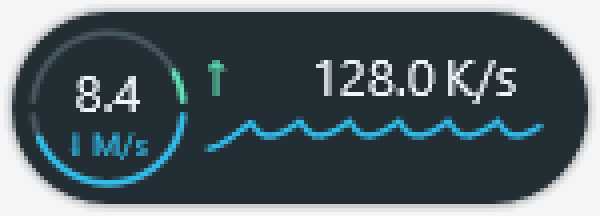
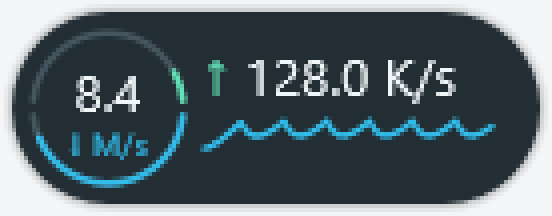
fix: tighten floating upload layout and capsule width
Narrow the body to 132x48 DIP while retaining ring and text size. Keep
upload readings next to the arrow, position units after the measured
number, and shorten the aligned trend line with a 12 DIP right inset.

Refresh visual evidence and cover short-reading placement with CTest.

diff --git a/src/WinMon/FloatingRateRenderer.cpp b/src/WinMon/FloatingRateRenderer.cpp
@@ -4,7 +4,7 @@
 
 namespace
 {
-constexpr float kBodyScale = 12.0f / 11.0f; // 132x44 design coordinates to 144x48 DIP.
+constexpr float kBodyScale = 12.0f / 11.0f; // Preserve the enlarged ring and text while narrowing the capsule.
 
 void Check(HRESULT result) { if (FAILED(result)) throw result; }
 double Rate(double value) noexcept { return std::isfinite(value) && value > 0 ? value : 0; }
@@ -23,16 +23,16 @@ FloatingRateRenderer::~FloatingRateRenderer()
 
 SIZE FloatingRateRenderer::SizeForDpi(UINT dpi) noexcept
 {
-    return {MulDiv(150, static_cast<int>(dpi), 96), MulDiv(54, static_cast<int>(dpi), 96)};
+    return {MulDiv(138, static_cast<int>(dpi), 96), MulDiv(54, static_cast<int>(dpi), 96)};
 }
 
 bool FloatingRateRenderer::HitTest(POINT client, UINT dpi) noexcept
 {
     if (!dpi) return false;
-    const float x = (client.x * 96.0f / dpi - 3) / kBodyScale;
-    const float y = (client.y * 96.0f / dpi - 3) / kBodyScale - 22;
-    const float dx = x - std::clamp(x, 22.0f, 110.0f);
-    return dx * dx + y * y <= 22 * 22;
+    const float x = client.x * 96.0f / dpi - 3;
+    const float y = client.y * 96.0f / dpi - 27;
+    const float dx = x - std::clamp(x, 24.0f, 108.0f);
+    return dx * dx + y * y <= 24 * 24;
 }
 
 bool FloatingRateRenderer::IsPositionVisible(RECT body, RECT workArea) noexcept
@@ -137,9 +137,9 @@ bool FloatingRateRenderer::Render(const std::wstring& upload, const std::wstring
         const auto color = [&](UINT32 rgb, float alpha = 1) { brush_->SetColor(D2D1::ColorF(rgb, alpha)); };
         // Two quiet contours keep the entire shadow inside the 3 DIP margin.
         color(0x000000, 0.06f);
-        target_->FillRoundedRectangle(D2D1::RoundedRect(D2D1::RectF(1, 1, 149, 53), 26, 26), brush_.Get());
+        target_->FillRoundedRectangle(D2D1::RoundedRect(D2D1::RectF(1, 1, 137, 53), 26, 26), brush_.Get());
         color(0x000000, 0.10f);
-        target_->FillRoundedRectangle(D2D1::RoundedRect(D2D1::RectF(2, 2, 148, 52), 25, 25), brush_.Get());
+        target_->FillRoundedRectangle(D2D1::RoundedRect(D2D1::RectF(2, 2, 136, 52), 25, 25), brush_.Get());
         Check(target_->EndDraw());
         const auto copyPixels = [&]
         {
@@ -154,7 +154,7 @@ bool FloatingRateRenderer::Render(const std::wstring& upload, const std::wstring
         // Scale vectors and glyphs before rasterization, leaving the shadow margin at 3 DIP.
         target_->SetTransform(D2D1::Matrix3x2F::Scale(kBodyScale, kBodyScale, D2D1::Point2F(3, 3)));
         color(0x222e34);
-        target_->FillRoundedRectangle(D2D1::RoundedRect(D2D1::RectF(3, 3, 135, 47), 22, 22), brush_.Get());
+        target_->FillRoundedRectangle(D2D1::RoundedRect(D2D1::RectF(3, 3, 124, 47), 22, 22), brush_.Get());
         double maximum = 1000;
         for (size_t i = 48 - count_; i < 48; ++i)
             maximum = std::max({maximum, uploadHistory_[i], downloadHistory_[i]});
@@ -192,7 +192,7 @@ bool FloatingRateRenderer::Render(const std::wstring& upload, const std::wstring
             color(peak == 1000 && downloadHistory_.back() == 0 ? 0x46565f : 0x32bdeb);
             const auto point = [&](size_t i)
             {
-                return D2D1::Point2F(48 + 76.0f * static_cast<float>(i) / 47,
+                return D2D1::Point2F(47 + 66.0f * static_cast<float>(i) / 47,
                     39 - 11 * static_cast<float>(downloadHistory_[i] / peak));
             };
             for (size_t i = 49 - count_; i < 48; ++i)
@@ -215,16 +215,28 @@ bool FloatingRateRenderer::Render(const std::wstring& upload, const std::wstring
                 Check(layout->SetFontSize(formats_[style]->GetFontSize() * scale * 0.98f, {0, length}));
             color(rgb);
             target_->DrawTextLayout(D2D1::Point2F(rect.left, rect.top), layout.Get(), brush_.Get());
+            Check(layout->GetMetrics(&metrics));
+            return metrics.widthIncludingTrailingWhitespace;
         };
         const auto split = download.find(L' ');
         text(download.substr(0, split), 0, D2D1::RectF(11, 13, 39, 29), 0xf0f5f7, DWRITE_TEXT_ALIGNMENT_CENTER);
         text(L"\u2193 " + (split == std::wstring::npos ? std::wstring{} : download.substr(split + 1)),
             1, D2D1::RectF(11, 28, 39, 38), 0x32bdeb, DWRITE_TEXT_ALIGNMENT_CENTER);
-        text(L"\u2191", 2, D2D1::RectF(47, 9, 58, 25), 0x61e5b7, DWRITE_TEXT_ALIGNMENT_LEADING);
+        const float arrowWidth = text(L"\u2191", 2, D2D1::RectF(47, 9, 58, 25),
+            0x61e5b7, DWRITE_TEXT_ALIGNMENT_LEADING);
         const auto uploadSplit = upload.find(L' ');
-        text(upload.substr(0, uploadSplit), 2, D2D1::RectF(59, 9, 100, 25), 0xf0f5f7, DWRITE_TEXT_ALIGNMENT_TRAILING);
-        text(uploadSplit == std::wstring::npos ? std::wstring{} : upload.substr(uploadSplit + 1),
-            2, D2D1::RectF(102, 9, 127, 25), 0xf0f5f7, DWRITE_TEXT_ALIGNMENT_LEADING);
+        const std::wstring unit = uploadSplit == std::wstring::npos ? std::wstring{} : upload.substr(uploadSplit);
+        ComPtr<IDWriteTextLayout> unitLayout;
+        Check(textFactory_->CreateTextLayout(unit.c_str(), static_cast<UINT32>(unit.size()),
+            formats_[2].Get(), 66, 16, &unitLayout));
+        DWRITE_TEXT_METRICS unitMetrics{};
+        Check(unitLayout->GetMetrics(&unitMetrics));
+        const float numberLeft = 47 + arrowWidth + 4 / kBodyScale;
+        const float numberWidth = text(upload.substr(0, uploadSplit), 2,
+            D2D1::RectF(numberLeft, 9, 113 - unitMetrics.widthIncludingTrailingWhitespace, 25),
+            0xf0f5f7, DWRITE_TEXT_ALIGNMENT_LEADING);
+        text(unit, 2, D2D1::RectF(numberLeft + numberWidth, 9, 113, 25),
+            0xf0f5f7, DWRITE_TEXT_ALIGNMENT_LEADING);
         Check(target_->EndDraw());
         auto body = copyPixels();
         auto pixels = body;

diff --git a/tests/FloatingRateRendererTests/FloatingRateRendererTests.cpp b/tests/FloatingRateRendererTests/FloatingRateRendererTests.cpp
@@ -36,14 +36,14 @@ int main(int argc, char** argv)
     LOGFONTW font{};
     wcscpy_s(font.lfFaceName, L"Segoe UI");
     Require(renderer.Render(L"0.0 K/s", L"0.0 K/s", font, 96), "offscreen render");
-    Require(renderer.PixelSize().cx == 150 && renderer.PixelSize().cy == 54, "144x48 body plus shadow");
+    Require(renderer.PixelSize().cx == 138 && renderer.PixelSize().cy == 54, "132x48 body plus shadow");
     bool partial = false;
     const auto& pixels = renderer.Pixels();
     for (size_t i = 0; i < pixels.size(); ++i)
     {
         const DWORD p = pixels[i], a = p >> 24;
         Require((p & 255) <= a && ((p >> 8) & 255) <= a && ((p >> 16) & 255) <= a, "premultiplied alpha");
-        if (i < 150 || i >= pixels.size() - 150 || i % 150 == 0 || i % 150 == 149)
+        if (i < 138 || i >= pixels.size() - 138 || i % 138 == 0 || i % 138 == 137)
             Require(p == 0, "transparent canvas boundary");
         partial |= a > 0 && a < 255;
     }
@@ -57,7 +57,7 @@ int main(int argc, char** argv)
         for (int dy = -1; dy <= 1; ++dy)
             for (int dx = -1; dx <= 1; ++dx)
             {
-                DWORD p = renderer.Pixels()[(y + dy) * 150 + x + dx];
+                DWORD p = renderer.Pixels()[(y + dy) * 138 + x + dx];
                 int b = p & 255, g = (p >> 8) & 255, r = (p >> 16) & 255;
                 if (up ? (g > 120 && g > b + 15 && g > r + 30) : (b > 140 && b > g + 15 && b > r + 50)) return true;
             }
@@ -131,6 +131,15 @@ int main(int argc, char** argv)
     Require(FloatingRateRenderer::HitTest({25, 25}, 96), "capsule receives input");
     Require(!FloatingRateRenderer::IsPositionVisible({2000,0,2132,44}, {0,0,1920,1080}), "missing monitor rejected");
     Require(FloatingRateRenderer::IsPositionVisible({-84,0,48,44}, {0,0,1920,1080}), "usable partial body retained");
+    Require(renderer.Render(L"0.6 K/s", L"0.1 K/s", font, 96), "compact short upload");
+    bool nearbyReading = false;
+    for (int y = 12; y < 26; ++y)
+        for (int x = 60; x < 70; ++x)
+        {
+            const DWORD p = renderer.Pixels()[y * 138 + x];
+            nearbyReading |= ((p >> 16) & 255) > 170 && ((p >> 8) & 255) > 170 && (p & 255) > 170;
+        }
+    Require(nearbyReading, "short upload stays beside arrow instead of aligning to far right");
     const auto evidence = argc > 1 ? std::filesystem::path(argv[1]) : std::filesystem::path{};
     if (!evidence.empty()) std::filesystem::create_directories(evidence);
     for (UINT dpi : {96u, 120u, 144u, 192u})
@@ -140,7 +149,7 @@ int main(int argc, char** argv)
                 wcscpy_s(font.lfFaceName, family);
                 Require(renderer.Render(value, value, font, dpi), "DPI/font/long value matrix");
                 const SIZE size = renderer.PixelSize();
-                Require(size.cx == (dpi == 96 ? 150 : dpi == 120 ? 188 : dpi == 144 ? 225 : 300), "scaled width");
+                Require(size.cx == (dpi == 96 ? 138 : dpi == 120 ? 173 : dpi == 144 ? 207 : 276), "scaled width");
                 Require(size.cy == (dpi == 96 ? 54 : dpi == 120 ? 68 : dpi == 144 ? 81 : 108), "scaled height");
                 for (size_t i = 0; i < renderer.Pixels().size(); ++i)
                 {
@@ -160,5 +169,7 @@ int main(int argc, char** argv)
         SaveBitmap(renderer, evidence / "actual-size-light.bmp", 0xf4f5f7);
         Require(renderer.Render(L"999.9 G/s", L"999.9 G/s", font, 96), "long evidence");
         SaveBitmap(renderer, evidence / "long-reading.bmp", 0xf4f5f7);
+        Require(renderer.Render(L"0.6 K/s", L"0.1 K/s", font, 96), "short evidence");
+        SaveBitmap(renderer, evidence / "short-reading.bmp", 0x181818);
     }
 }

diff --git a/.scratch/compact-floating-rate-display/spec.md b/.scratch/compact-floating-rate-display/spec.md
@@ -12,7 +12,7 @@ Status: ready-for-human
 
 ## Solution
 
-实现约 3:1 的深色胶囊，主体尺寸为 **144×48 DIP**。左侧圆环内显示 Download Rate 数值和单位；右侧上方显示 Upload Rate，下方显示近期 Download Rate 曲线。
+实现约 3:1 的深色胶囊，主体尺寸为 **132×48 DIP**。左侧圆环内显示 Download Rate 数值和单位；右侧上方显示 Upload Rate，下方显示近期 Download Rate 曲线。
 
 圆环沿水平方向分成独立的上下半环：
 
@@ -63,7 +63,7 @@ Status: ready-for-human
 
 ### 外观与排版
 
-- 主体 144×48 DIP，圆角半径 24 DIP，约 3:1。左侧环外径约 39 DIP，主体内留约 4 DIP 边距，线宽约 1.64 DIP，使用圆头端点。
+- 主体 132×48 DIP，圆角半径 24 DIP，约 3:1。左侧环外径约 39 DIP，主体内留约 4 DIP 边距，线宽约 1.64 DIP，使用圆头端点。
 - 主体深灰蓝以 #222E34 为基准，主要文字近白，Upload Rate 青绿、Download Rate 青蓝；暗轨道低对比但可见。主体保持足够不透明度保证读数，透明度主要用于边缘和轻微阴影。
 - 阴影透明边距上限每侧约 3 DIP，另计窗口尺寸；不得把主体尺寸与含阴影窗口尺寸混用。阴影不接收点击，胶囊主体可拖动和打开菜单。
 - 左侧为下载数值，下方为向下箭头及单位；右上为向上箭头及完整上传读数，右下为单条下载趋势线。没有 CPU、百分比、加号按钮、标题或图外说明文字。
@@ -125,7 +125,7 @@ Status: ready-for-human
 ## Further Notes
 
 - 视觉参考：[双半环深色胶囊预览](visual-reference.png)。这是放大的生成图，用于布局、颜色及方向参考；工程验收以本文的尺寸、格式和行为为准。图中的英文引线说明不属于产品 UI。
-- 设计收敛记录：保留第二款下载优先布局，采用第三款约 3:1 比例，恢复项目深色系，尺寸由 144×48 DIP 缩至 132×44 DIP，圆环改为上传在上、下载在下且均从右端开始。
+- 设计收敛记录：保留第二款下载优先布局，采用第三款约 3:1 比例，恢复项目深色系，尺寸由 132×48 DIP 缩至 132×44 DIP，圆环改为上传在上、下载在下且均从右端开始。
 - 用户已指定采用推荐的 Direct2D／DirectWrite 技术选型。本规格对未讨论的比例标尺、字体适配、采样刷新和资源复用给出了可直接实现的默认决定。
 - 技术依据：[Microsoft — Layered Windows with Direct2D](https://learn.microsoft.com/en-us/archive/msdn-magazine/2009/december/windows-with-c-layered-windows-with-direct2d)。它描述了 Direct2D、WIC 预乘位图和分层窗口的组合；不是要求复制其中旧示例的全部封装。
 
@@ -135,4 +135,8 @@ Status: ready-for-human
 
 ### 用户视觉修订
 
-主体从 132×44 DIP 适度放大为 144×48 DIP，文字及图形同比放大约 9%，阴影边距仍为 3 DIP。对照原型，左右两端的上下半环及暗轨道均保留约 2 DIP 间隙。以上覆盖早期尺寸收敛记录。
+主体从 132×44 DIP 适度放大为 132×48 DIP，文字及图形同比放大约 9%，阴影边距仍为 3 DIP。对照原型，左右两端的上下半环及暗轨道均保留约 2 DIP 间隙。以上覆盖早期尺寸收敛记录。
+
+### 2026-09-20 右侧排版修订
+
+主体从 144×48 DIP 收窄为 132×48 DIP，保留当前高度、圆环及字号。上传箭头与读数左对齐，间隔 4 DIP，单位以正常空格紧接数字；仅长数字按可用空间缩小。曲线左端对齐箭头，右端距主体右缘 12 DIP。Release 构建和 3/3 CTest 通过，新增短上传读数靠近箭头的像素回归；原待人工验收状态保持。

diff --git a/CONTEXT.md b/CONTEXT.md
@@ -13,7 +13,7 @@ The two-line Upload/Download Rate text embedded on the primary bottom taskbar on
 _Avoid_: taskbar window, widget, HUD, overlay (unless contrasting implementation), main UI
 
 **Floating Rate Display**:
-An optional, borderless, always-on-top 144x48 DIP dark capsule. Download Rate is emphasized inside a left-hand ring; Upload Rate sits above a recent download trend on the right. Green upper and blue lower semicircles have small gaps at both horizontal joints; they grow from the right toward the left, showing upload and download relative to a shared recent peak (not bandwidth utilization). Direct2D/DirectWrite render at the display monitor's DPI with per-pixel alpha; the subtle shadow occupies at most 3 DIP per side and passes mouse input through. It has no taskbar or Alt-Tab entry, uses the Rate Font family and styles with independently fitted compact sizes, can be dragged without activation, and always opens the Operator Menu on right-click; it remains available while the Rate Strip is hidden. Its dark palette is fixed and independent of the Rate Strip's system-theme colors. Graphical history resets when Network to Monitor changes or falls back. Its visibility and absolute desktop position persist; first use and an off-screen restored position place it at the primary work area's upper-right corner.
+An optional, borderless, always-on-top 132x48 DIP dark capsule. Download Rate is emphasized inside a left-hand ring; Upload Rate sits above a recent download trend on the right. Green upper and blue lower semicircles have small gaps at both horizontal joints; they grow from the right toward the left, showing upload and download relative to a shared recent peak (not bandwidth utilization). Direct2D/DirectWrite render at the display monitor's DPI with per-pixel alpha; the subtle shadow occupies at most 3 DIP per side and passes mouse input through. It has no taskbar or Alt-Tab entry, uses the Rate Font family and styles with independently fitted compact sizes, can be dragged without activation, and always opens the Operator Menu on right-click; it remains available while the Rate Strip is hidden. Its dark palette is fixed and independent of the Rate Strip's system-theme colors. Graphical history resets when Network to Monitor changes or falls back. Its visibility and absolute desktop position persist; first use and an off-screen restored position place it at the primary work area's upper-right corner.
 _Avoid_: floating window, dashboard, overlay, main window
 
 **Tray Icon**:
